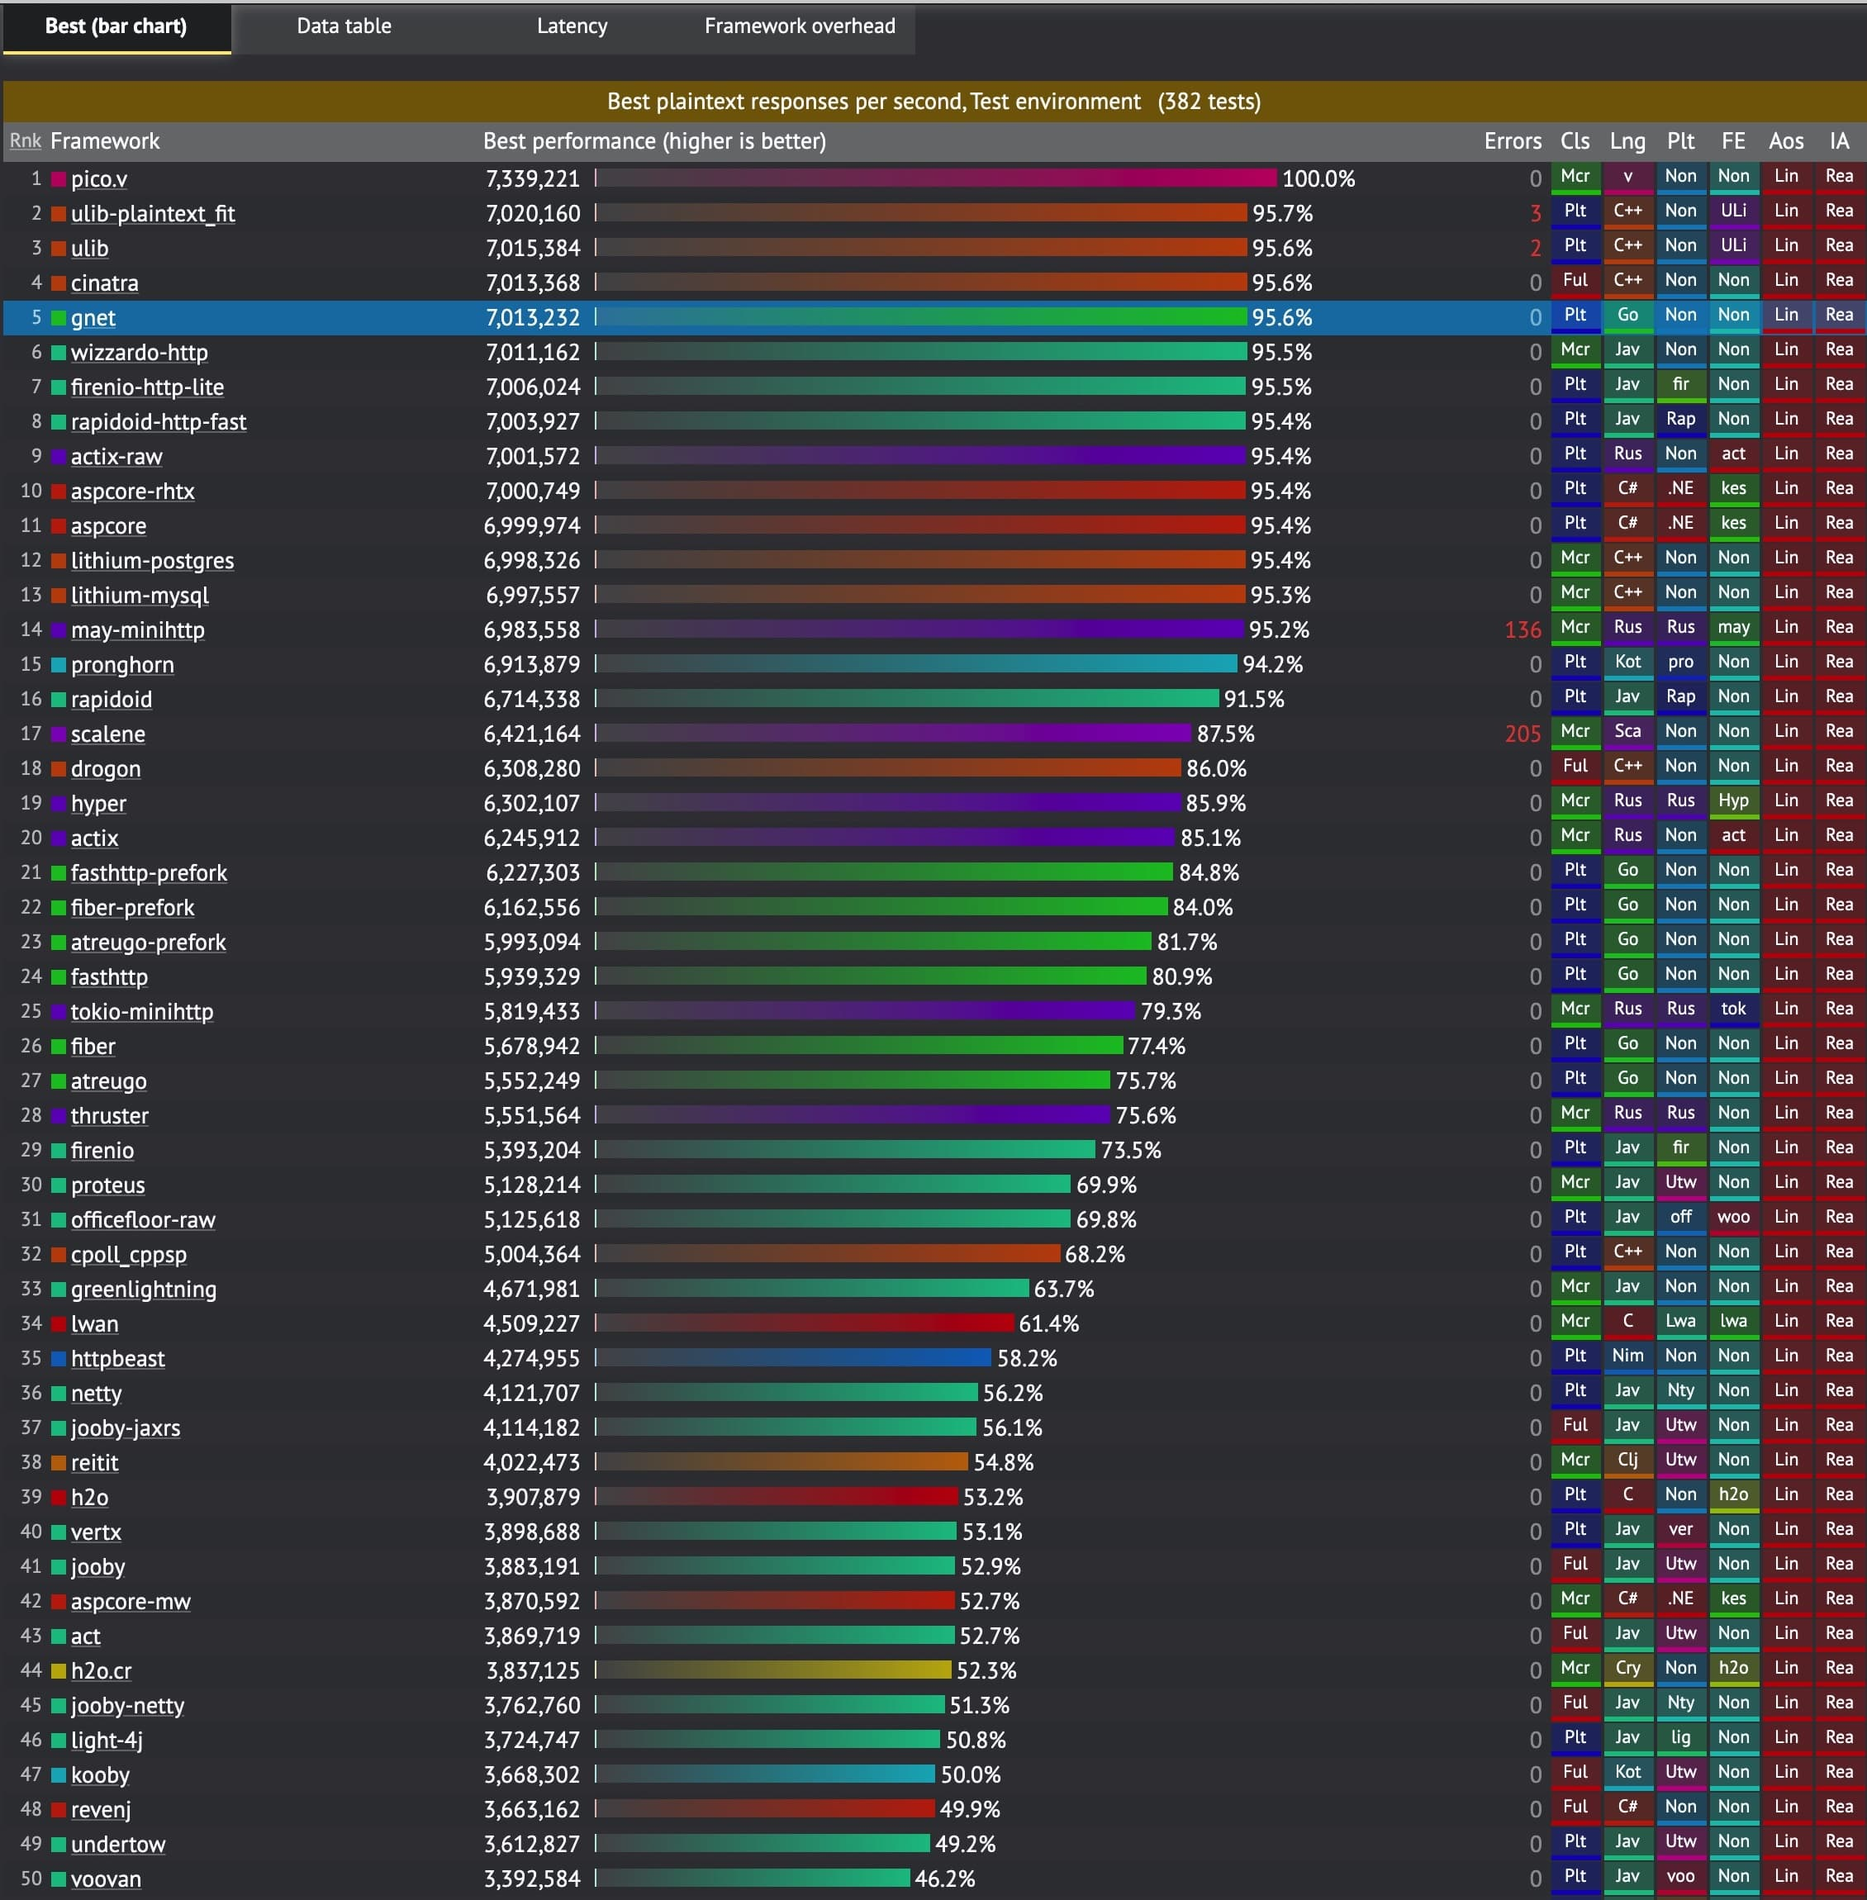
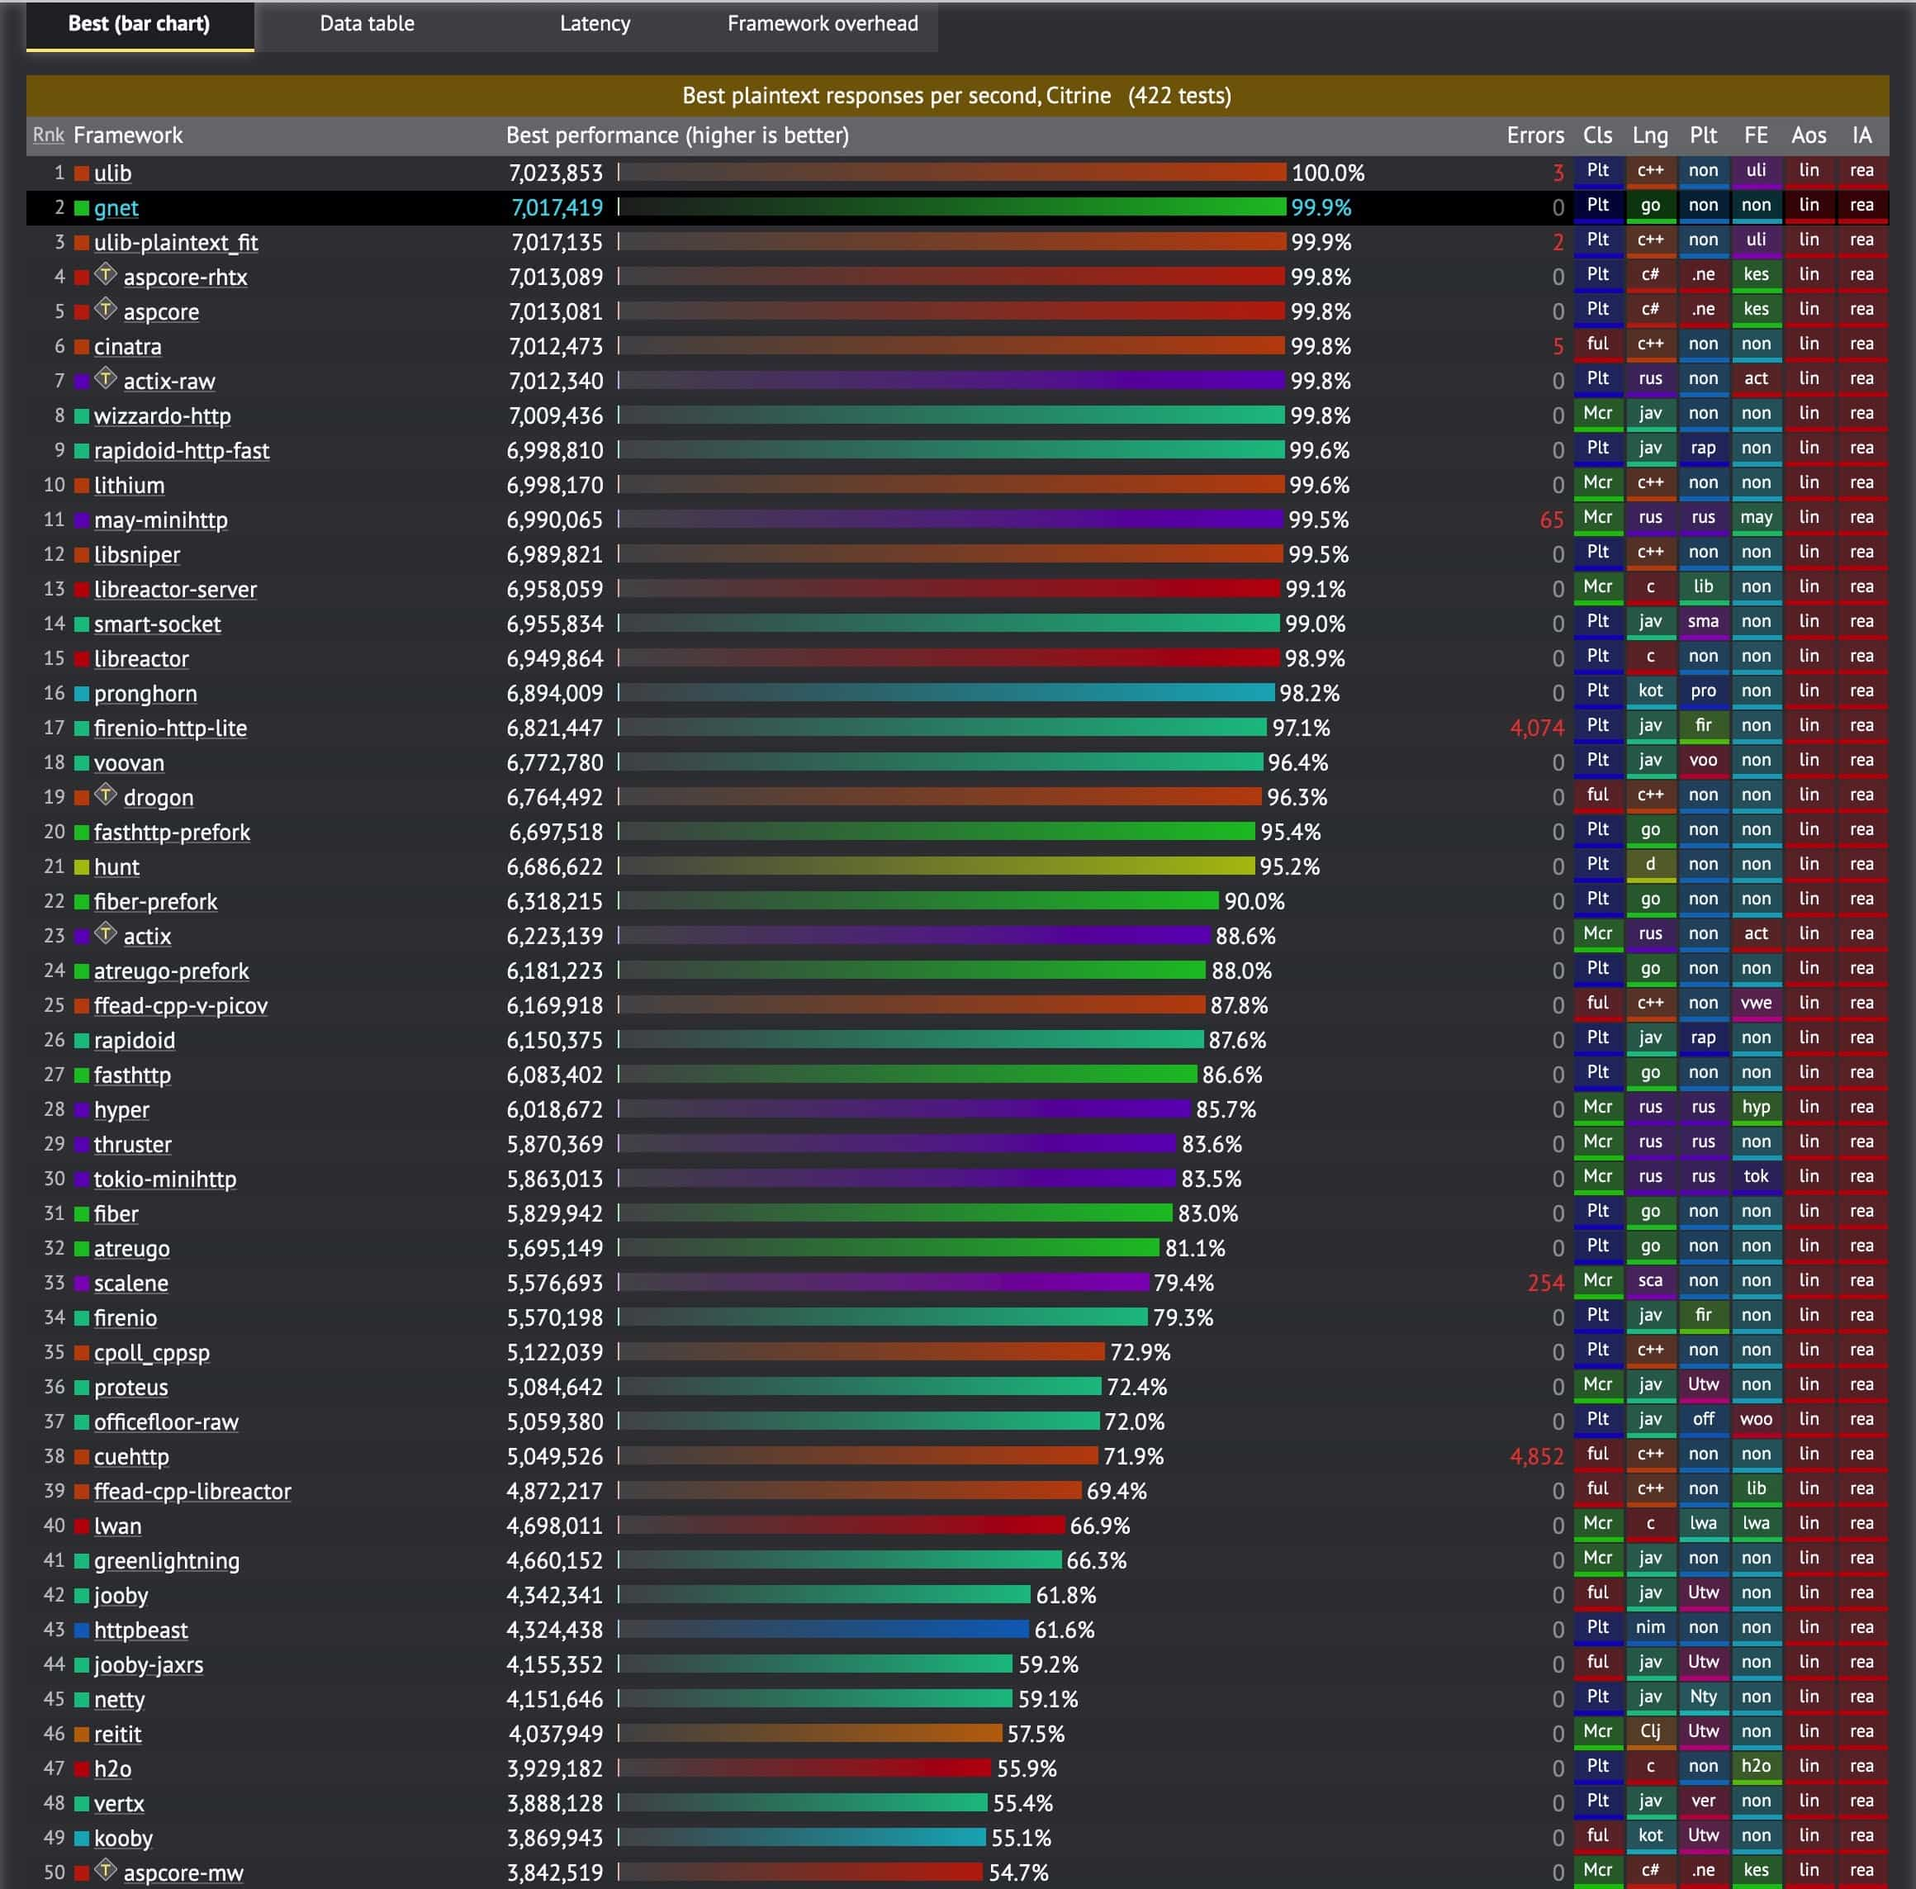
doc: renew results of techempower benchmark

diff --git a/README.md b/README.md
@@ -90,14 +90,14 @@ Go : go1.14.x linux/amd64
 
 ![All language](https://raw.githubusercontent.com/panjf2000/illustrations/master/benchmark/techempower-all.jpg)
 
-This is the top 50 on the framework ranking of all programming languages consists of a total of 382 frameworks from all over the world.
+This is the top 50 on the framework ranking of all programming languages consists of a total of 422 frameworks from all over the world where `gnet` is the runner-up.
 
 
 ![Golang](https://raw.githubusercontent.com/panjf2000/illustrations/master/benchmark/techempower-go.png)
 
-This is the full framework ranking of Golang.
+This is the full framework ranking of Go and `gnet` tops all the other frameworks, which makes `gnet` the fastest networking framework in Go.
 
-To see the full ranking list, visit [Full ranking list of Plaintext](https://www.techempower.com/benchmarks/#section=test&runid=c7152e8f-5b33-4ae7-9e89-630af44bc8de&hw=ph&test=plaintext).
+To see the full ranking list, visit [TechEmpower Plaintext Benchmark](https://www.techempower.com/benchmarks/#section=test&runid=53c6220a-e110-466c-a333-2e879fea21ad&hw=ph&test=plaintext).
 
 ## Contrasts to the similar networking libraries
 

diff --git a/README_ZH.md b/README_ZH.md
@@ -88,14 +88,14 @@ Go : go1.14.x linux/amd64
 
 ![All language](https://raw.githubusercontent.com/panjf2000/illustrations/master/benchmark/techempower-all.jpg)
 
-这是包含全部编程语言框架的性能排名前 50 的结果，总榜单包含了全世界共计 382 个框架。
+这是包含全部编程语言框架的性能排名前 50 的结果，总榜单包含了全世界共计 422 个框架，其中 `gnet` 排名第二。
 
 
 ![Golang](https://raw.githubusercontent.com/panjf2000/illustrations/master/benchmark/techempower-go.png)
 
-这是 Go 语言分类下的全部排名。
+这是 Go 语言分类下的全部排名，`gnet` 超越了其他所有框架，位列第一，是最快的 Go 网络框架。
 
-完整的排行可以通过 [Full ranking list of Plaintext](https://www.techempower.com/benchmarks/#section=test&runid=c7152e8f-5b33-4ae7-9e89-630af44bc8de&hw=ph&test=plaintext) 查看.
+完整的排行可以通过 [TechEmpower Plaintext Benchmark](https://www.techempower.com/benchmarks/#section=test&runid=53c6220a-e110-466c-a333-2e879fea21ad&hw=ph&test=plaintext) 查看.
 
 ## 同类型的网络库性能对比
 
